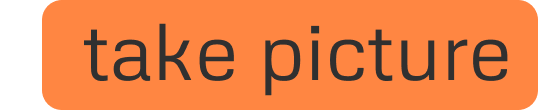
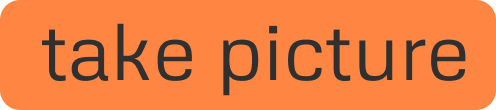
moved take picture button

diff --git a/bitetrack/screens/CameraScreen.js b/bitetrack/screens/CameraScreen.js
@@ -1,4 +1,4 @@
-import { StyleSheet, SafeAreaView, Button, Text, Image} from 'react-native';
+import { StyleSheet, SafeAreaView, Button, Text, Image, TouchableOpacity} from 'react-native';
 import { useEffect, useRef, useState} from 'react';
 import { Camera, CameraType } from 'expo-camera';
 import * as MediaLibrary from 'expo-media-library';
@@ -19,9 +19,6 @@ export default function CameraScreen() {
     })();
   }, []);
 
-  if (hasCameraPermission) {
-    console.log('has permission')
-  }
   if (hasCameraPermission === undefined) {
     return <Text>Requesting permissions...</Text>
   } else if (!hasCameraPermission) {
@@ -49,8 +46,17 @@ export default function CameraScreen() {
     return (
       <SafeAreaView style={styles.container}>
         <Image style={styles.preview} source={{ uri: "data:iamge/jpg;base64," + photo.base64 }} />
-        {hasMediaLibraryPermission ? <Button title="Save" color="#ff8642" onPress={savePhoto} /> : undefined}
-        <Button title="Discard" color="#ff8642" onPress={() => setPhoto(undefined)} />
+        {hasMediaLibraryPermission ? 
+          <TouchableOpacity onPress={savePhoto}>
+            <Image 
+              style={styles.savepic}
+              source={require('../assets/save.png')}/>
+          </TouchableOpacity> : undefined}
+          <TouchableOpacity onPress={() => setPhoto(undefined)}>
+            <Image 
+              style={styles.discardpic}
+              source={require('../assets/discard.png')}/>
+          </TouchableOpacity>
       </SafeAreaView>
     );
   }
@@ -58,8 +64,13 @@ export default function CameraScreen() {
     return (
       <Camera type={CameraType.back} style={{height: 780}} styles={styles.container} ref={cameraRef} onCameraReady={() => console.log('camera ready')}>
            <SafeAreaView style={styles.buttonContainer}>
-            <Button title="Take Picture" color="#ff8642" onPress={takePic} />
-           </SafeAreaView>
+        <Image style={styles.preview} source={undefined} />
+        <TouchableOpacity onPress={takePic} style={{}}>
+          <Image 
+          style={styles.takepic}
+          source={require('../assets/takepicture.png')}/>
+        </TouchableOpacity>
+      </SafeAreaView>
       </Camera>
      
   );
@@ -73,11 +84,29 @@ const styles = StyleSheet.create({
     justifyContent: 'center',
   },
   buttonContainer: {
-    backgroundColor: "#303030",
-    alignSelf: 'flex-end'
+    flex: 1,
+    backgroundColor: '#0000',
+    alignItems: 'center',
+    justifyContent: 'center',
+    marginBottom: 40
   },
   preview: {
+    backgroundColor: 'transparent',
+    flex: 1,
     alignSelf: 'stretch',
-    flex: 1
+  },
+  takepic: {
+    height: 48,
+    width: 224,
+  },
+  savepic: {
+    height: 44,
+    width: 100,
+    margin: 10
+  },
+  discardpic: {
+    height: 44,
+    width: 152,
+    margin: 10
   }
 });
